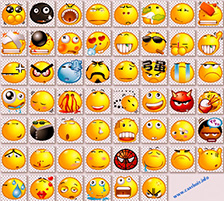
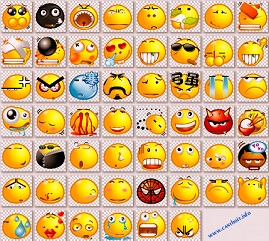
add emotion support

diff --git a/js/index.js b/js/index.js
@@ -46,10 +46,15 @@ $(function() {
 	}
 
 	function initSendBtn() {
-		$("#send").on("click", _sendMsg);
+		function _doSendMsg(e){
+			_sendMsg();
+			$("div.emotion.popup").hide();
+		}
+
+		$("#send").on("click", _doSendMsg);
 		$("div.input").keypress(function(e) {
 			if ((e.keyCode == 13  || e.keyCode == 10) && e.ctrlKey) {
-				_sendMsg();
+				_doSendMsg(e);
 			}
 		})
 
@@ -75,6 +80,7 @@ $(function() {
 		var role = $.cookie("role") || "female";
 		var msg = {
 			type: "msg sending " + role,
+			time: new Date().getTime(),
 			msg: msgValue
 		}
 		$ta.val("");
@@ -88,27 +94,77 @@ $(function() {
 	// 显示消息： 自己发送的 + 从服务器接收的
 	function _addMsg(msg) {
 
-		var className = msg.type;
+		// 认证密码输入，不显示
 		var msgContent = msg.msg;
-
-		msgContent = msgContent.trim();
 		if (/^\d{6,6}$/.test(msgContent) === true) {
-			// 认证密码输入，不显示
 			return;
 		}
+		
+		var $contentArea = $(".content_area");
+		var $lineDiv = _getLineDiv(msg);
+		$lineDiv.appendTo($contentArea);
 
+		_scrollIntoView();
+
+		return $lineDiv;
+	}
+
+	function _getLineDiv(msg){
+
+		var className = msg.type;
+		var msgContent = msg.msg;
+		var unixtime = msg.time;
+
+		// 换行的处理
 		msgContent = msgContent.replace(/\n|(\r\n)/g, "<br/>");
 
-		var $contentArea = $(".content_area");
+		// 表情符号的处理
+		var reg = new RegExp("\\[(.*?)\\]", "g");
+		var matchResult = null;
+		while(matchResult = reg.exec(msgContent)){
+			console.log(matchResult);
+			if(matchResult == null){
+				break;
+			}
+
+			var infoStr = matchResult[1];
+			var infoArr = infoStr.split("_");
+			var imgName = infoArr[0];
+			var x = infoArr[1];
+			var y = infoArr[2];
+
+			var imgInfo = window.emotions[imgName];
+			var imgPath = imgInfo.imgPath;
+			var singleSizeW = imgInfo.singleSizeW;
+			var singleSizeH = imgInfo.singleSizeH;
+			var posx = x * singleSizeW * -1;
+			var posy = y * singleSizeH * -1;
+
+			var bg = "white url('{0}') {1}px {2}px".format(imgPath, posx, posy);
+			var imgStr = '<span class="emotion" style="display:inline-block;width:{0}px;height:{1}px;background:{2}"></span>'
+			imgStr = imgStr.format(singleSizeW, singleSizeH, bg);
+			msgContent = msgContent.replace(new RegExp("\\["+infoStr+"\\]", "g"), imgStr);
+		}
+
+
 		var $div = $("<div class='line'></div>");
 		$div
 			.html(msgContent)
 			.addClass(className)
-			.appendTo($contentArea);
-
-		_scrollIntoView();
-
+			.attr("unixtime", unixtime);
 		return $div;
+	}
+
+	function _addTimeLine($lineDiv) {
+		var unixtime = $lineDiv.attr("unixtime");
+		var formatTime = new Date(unixtime).getFormatOutput();
+		$('<div class="line system"></div>')
+			.html(formatTime)
+			.css({
+				"text-align": "center"
+			})
+			.insertBefore($lineDiv)
+			.get(0).scrollIntoView();
 	}
 
 	function _emit(msg, $div) {

diff --git a/js/common.js b/js/common.js
@@ -1,23 +1,47 @@
 "use strict";
 
 // global variables
-if(!window.emotions){
+if (!window.emotions) {
 	window.emotions = {};
 }
 
 
-(function(){
+(function() {
 
-jsExt();
+	jsExt();
 
-function jsExt(){
+	function jsExt() {
 
-    String.prototype.format = function() {
-        var args = arguments;
-        return this.replace(/{(\d+)}/g, function(match, number) {
-            return typeof args[number] != 'undefined' ? args[number] : match;
-        });
-    };
-}
+		// String.format
+		String.prototype.format = function() {
+			var args = arguments;
+			return this.replace(/{(\d+)}/g, function(match, number) {
+				return typeof args[number] != 'undefined' ? args[number] : match;
+			});
+		};
+
+		// Date.getFormatOutput
+		Date.prototype.getFormatOutput = function() {
+			var year = this.getFullYear();
+			var month = this.getMonth();
+			var day = this.getDate();
+			var hour = this.getHours();
+			var minute = this.getMinutes();
+			var second = this.getSeconds();
+
+			var nowDate = new Date();
+			var todayFlag = false;
+			if (year == nowDate.getFullYear() && month == nowDate.getMonth() && day == nowDate.getDate()) {
+				todayFlag = true;
+			}
+			if (todayFlag === true) {
+				return "{0}-{1}-{2} {3}:{4}:{5}".format(year, month, day, hour, minute, second);
+			} else {
+				return "{0}:{1}:{2}".format(hour, minute, second);
+			}
+		}
+
+	}
+
 
 })();

diff --git a/js/emotion.js b/js/emotion.js
@@ -2,10 +2,10 @@
 
 $(function() {
 
-	var imgWidth = 447;
-	var imageHeight = 401;
-	var singleSizeW = 56
-	var singleSizeH = 58
+	var imgWidth = 269;
+	var imageHeight = 241;
+	var singleSizeW = 34
+	var singleSizeH = 35
 	var imgName = "2";
 	var imgExt = "jpg";
 
@@ -27,25 +27,15 @@ $(function() {
 	};
 
 	function initPopSelect($input) {
-		var $popSelect = $('<div class="emotion"></div>')
+		var $popSelect = $('<div class="emotion popup"></div>')
 			.addClass("emotion_" + imgName)
 			.appendTo($(document.body));
-
-		$popSelect.css({
-			position: "absolute",
-			top: 0,
-			left: 0,
-			padding: "20px",
-			width: "100%",
-			display: "none"
-		});
 
 		for (var i = 0; i < colCount; i++) {
 			for (var j = 0; j < rowCount; j++) {
 				var posid = "{0}_{1}_{2}".format(imgName, i,j);
 				var bgxy = _getBGXY(i,j);
 				var background = "white url('{0}') {1}px {2}px".format(imgPath, bgxy[0], bgxy[1]);
-				console.log(background);
 				$('<div class="tile"></div>').css({
 					"width": singleSizeW + "px",
 					"height": singleSizeH + "px",

diff --git a/index.html b/index.html
@@ -102,6 +102,24 @@
 		border: 1px solid red;
 	}
 
+	div.emotion.popup {
+		position: absolute;
+		top: 0px;
+		left: 0px;
+		width: 100%;
+		padding-left: 20px;
+		padding-top: 10px;
+		max-height: 45%;
+		overflow:auto;
+		display:none;
+	}
+
+	div.emotion.popup:after {
+		content: "";
+		display: block;
+		clear: both;
+	}
+
 	</style>
 </head>
 <body>
